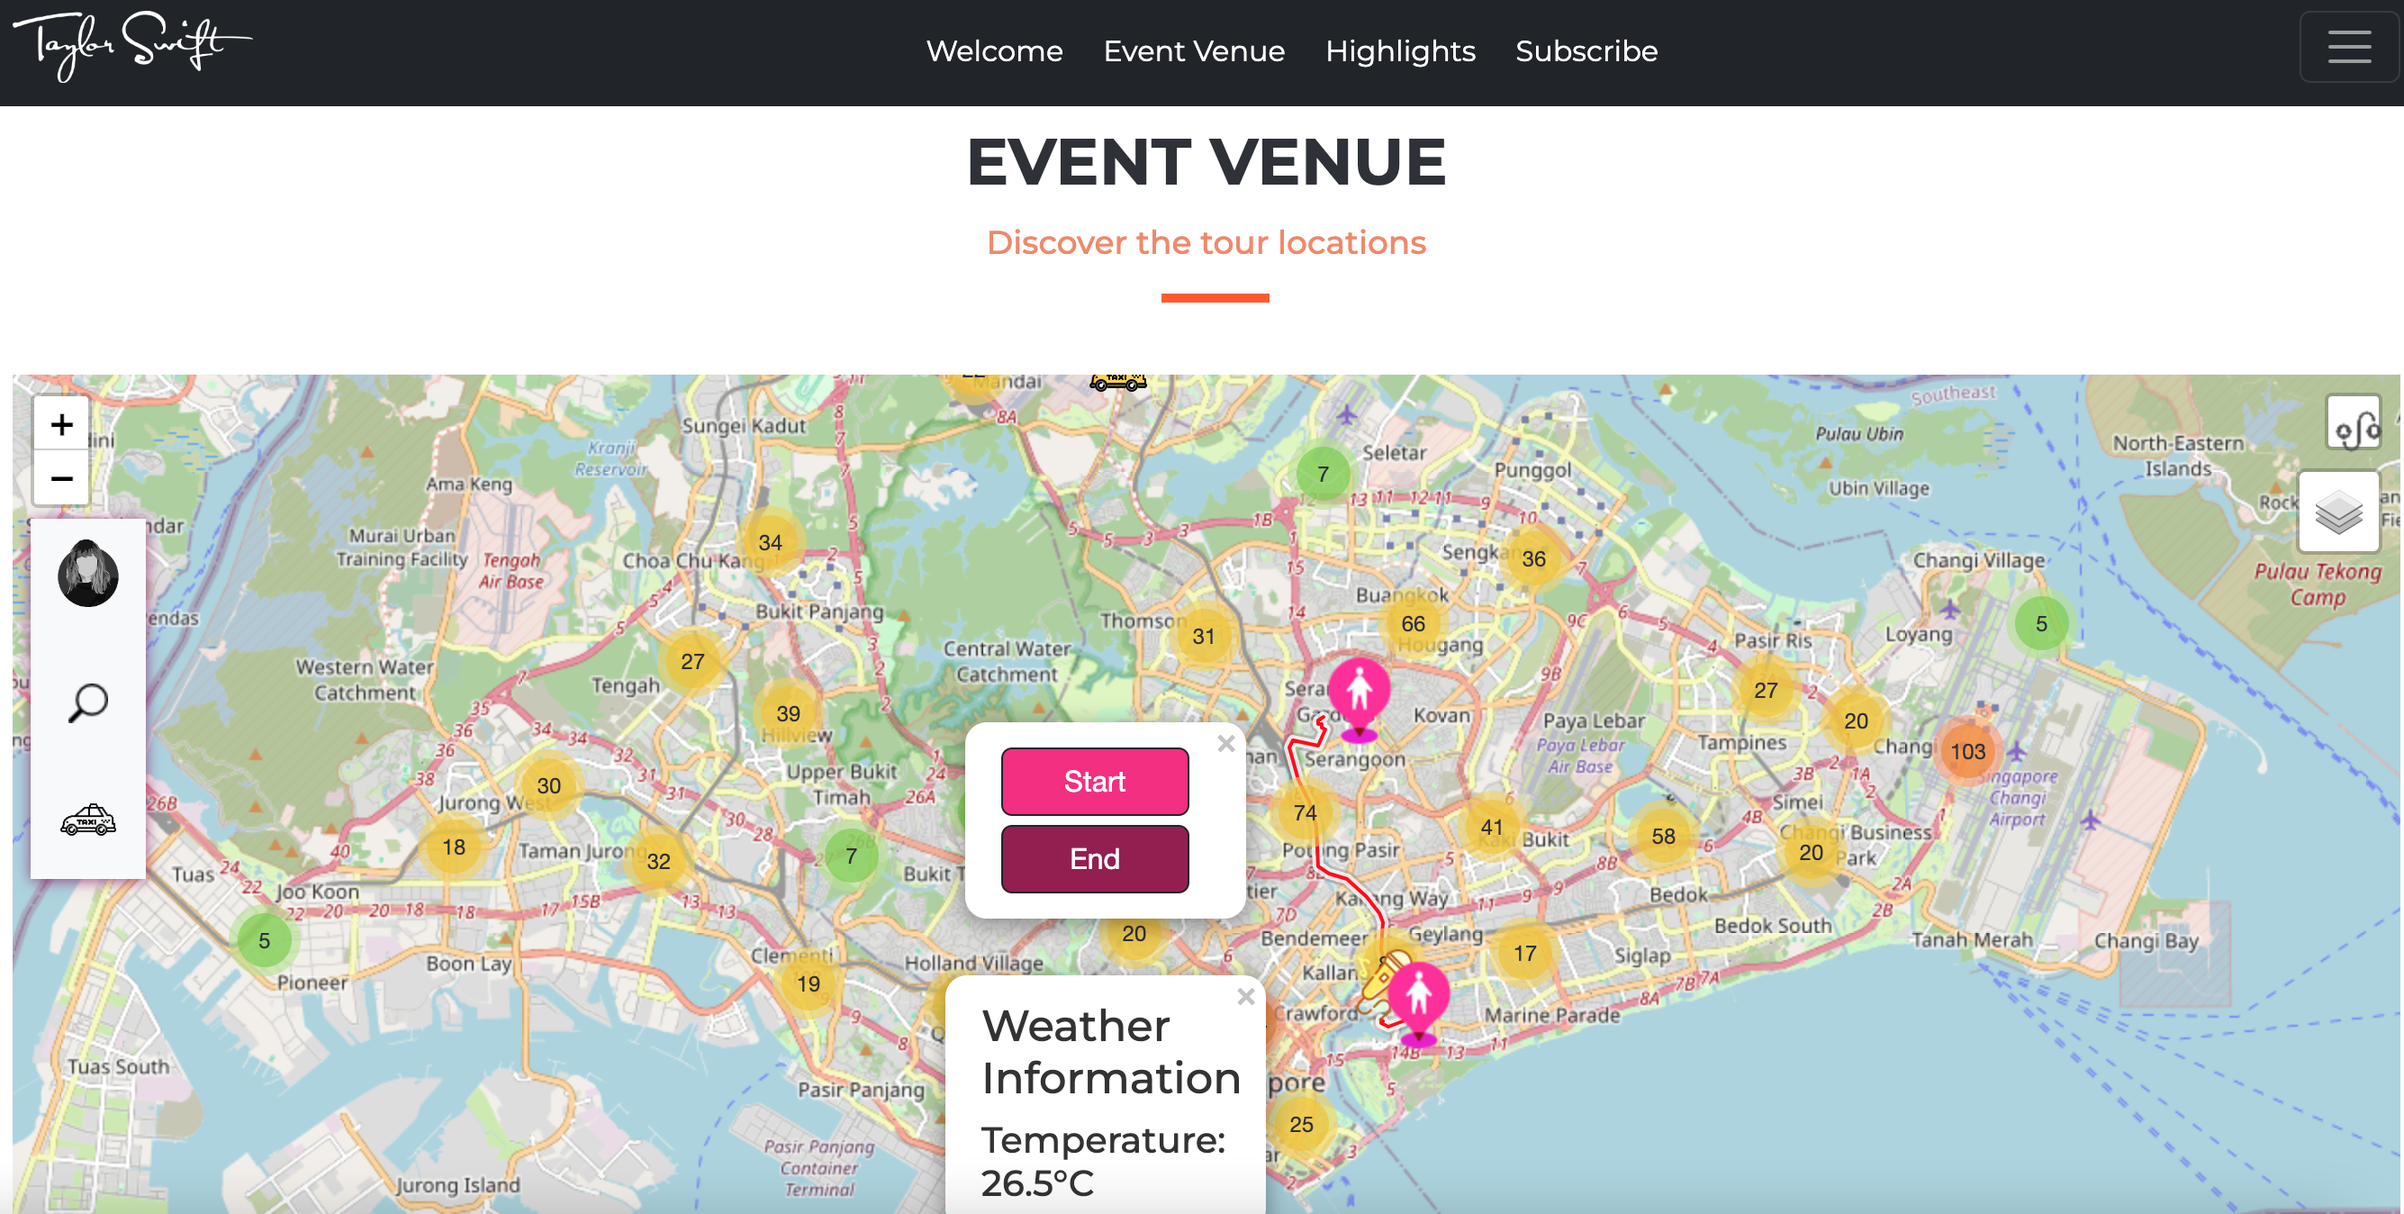
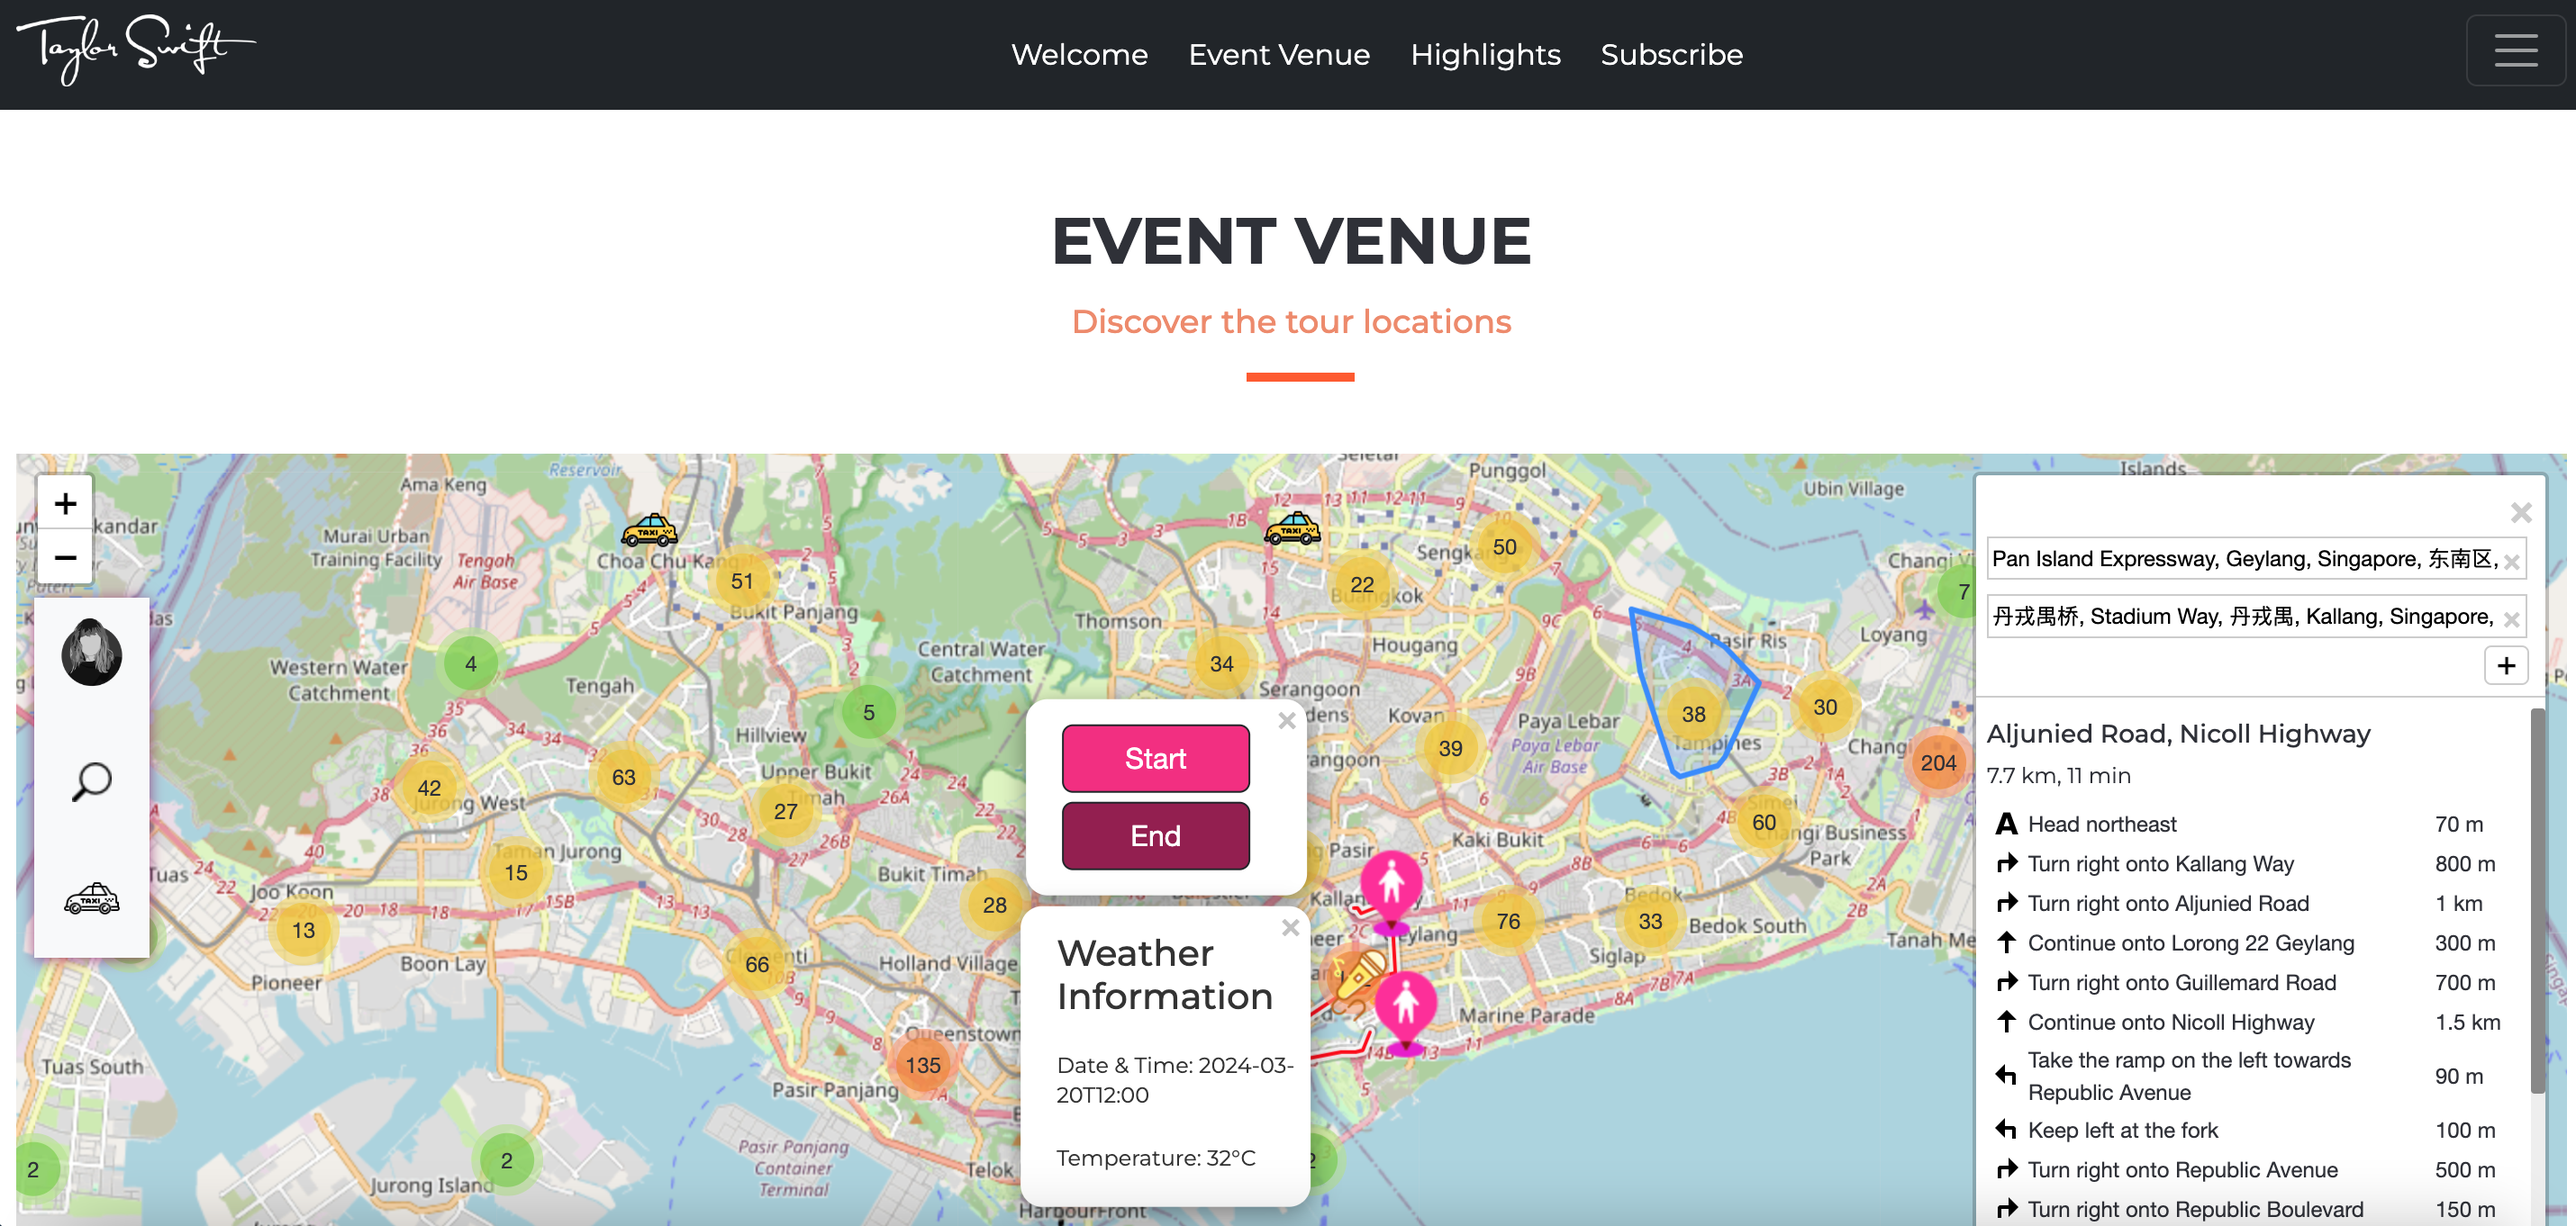
poc

diff --git a/assets/js/script.js b/assets/js/script.js
@@ -205,10 +205,11 @@ document.addEventListener("DOMContentLoaded", async function () {
                 params: {
                     latitude: latitude,
                     longitude: longitude,
-                    hourly: 'temperature_2m',
+                    hourly: 'temperature_2m', 'time':12,
                     timezone: 'auto'
                 }
             });
+            console.log(response);
             return response.data;
 
         } catch (error) {
@@ -276,8 +277,9 @@ document.addEventListener("DOMContentLoaded", async function () {
             const weatherData = await fetchWeatherData(e.latlng.lat, e.latlng.lng);
             // Set content for weatherContainer based on fetched data
             weatherContainer.innerHTML = `
-                <h4>Weather Information</h4>
-                <h5>Temperature: ${weatherData.hourly.temperature_2m[0]}°C</h5>
+                <h5>Weather Information</h5>
+                <p>Date & Time: ${ weatherData.hourly.time[12]}</p>
+                <p>Temperature: ${weatherData.hourly.temperature_2m[12]}°C</p>
             `;
         } catch (error) {
             console.error('An error occurred while fetching weather data:', error);
